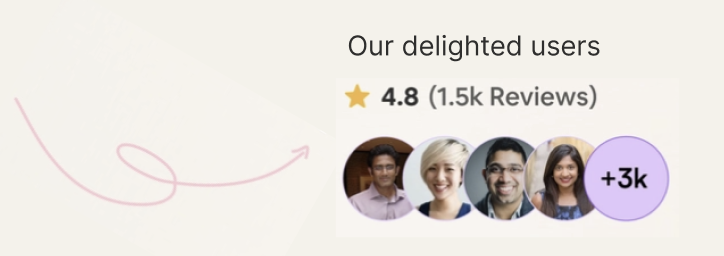
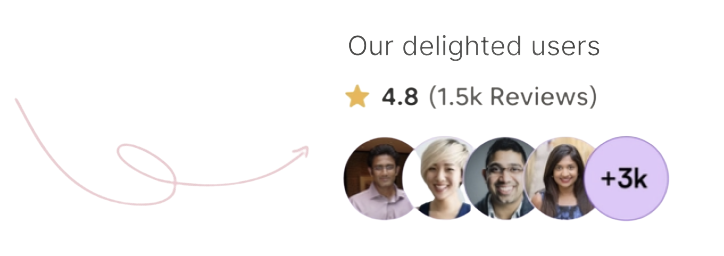
fix: fixed proportions on home page and added basic styling to meme generator

diff --git a/src/pages/Home/home.css b/src/pages/Home/home.css
@@ -1,24 +1,24 @@
 .slogan {
     text-align: center;
-    font-size: 6vw;
+    font-size: 4vw;
 }
 
 .title{
     color: rgb(226, 198, 251);
     font-weight: bolder;
-    font-size: 5vw;
+    font-size: 2vw;
 }
 
 .description{
-    max-width: 60vw;
-    font-size: 2vw;
+    max-width: 40vw;
+    font-size: 1vw;
     font-weight: normal
 }
 
 .pet-image {
     height: auto;
-    max-width: 50vw;
-    padding-top: 5vw;
+    max-width: 30vw;
+    padding-top: 2vw;
     padding-bottom: 4vw;
     display: block;
     margin-left: auto;
@@ -32,19 +32,19 @@
 
 .review-image{
     margin-left: 0.5vw;
-    margin-top: 0.5vw;
-    width: 70vw;
-    height: 15vw;
+    margin-top: 7vw;
+    width: 30vw;
+    height: 8vw;
 }
 
 .viewpets {
-    margin-top: 5vw;
-    padding: 1vw;
-    padding-left: 2vw;
+    margin-top: 1vw;
+    margin-bottom: 4vw;
+    padding: 0.5vw;
     border-radius: 20vw;
     background-color: rgb(156, 97, 241);
     color: white;
-    font-size: 2vw;
+    font-size: 1vw;
 }
 
 .info4{

diff --git a/src/pages/BuildMeme/buildMeme.css b/src/pages/BuildMeme/buildMeme.css
@@ -11,6 +11,7 @@
     display: flex;
     flex-direction: column;
     align-items: center;
+    margin-left: 14vw;
   }
   
   .cat-image-container,
@@ -56,7 +57,7 @@
     cursor: pointer;
     margin-top: 2rem;
     transition: background-color 0.3s ease; 
-    display:inline-flex;
+    /* display:inline-flex; */
   }
   
   .new-cat-button:hover,
@@ -66,10 +67,14 @@
     color: #000;
   }
   
-
+  .build-meme{
+    display: flex;
+    justify-content: row;
+  }
   
-  
-
+.new-quote-button{
+  margin-left: 14vw;
+}
    
   
   

diff --git a/src/pages/BuildMeme/BuildMeme.jsx b/src/pages/BuildMeme/BuildMeme.jsx
@@ -143,8 +143,10 @@ export default function BuildMeme() {
 
   return (
         <>
+          <div className='build-meme'>
           <CatMemeCreator />
           <DogMemeCreator />
+          </div>
         </>
       ); 
 }
